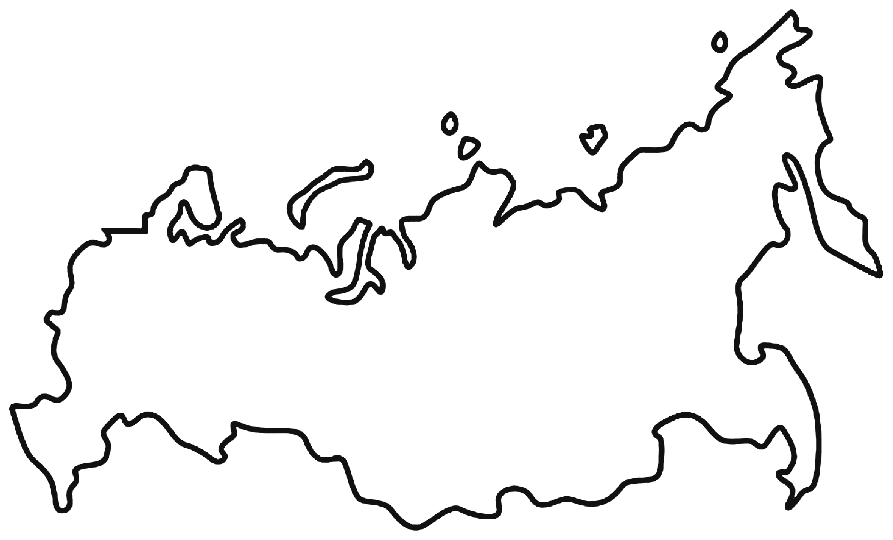
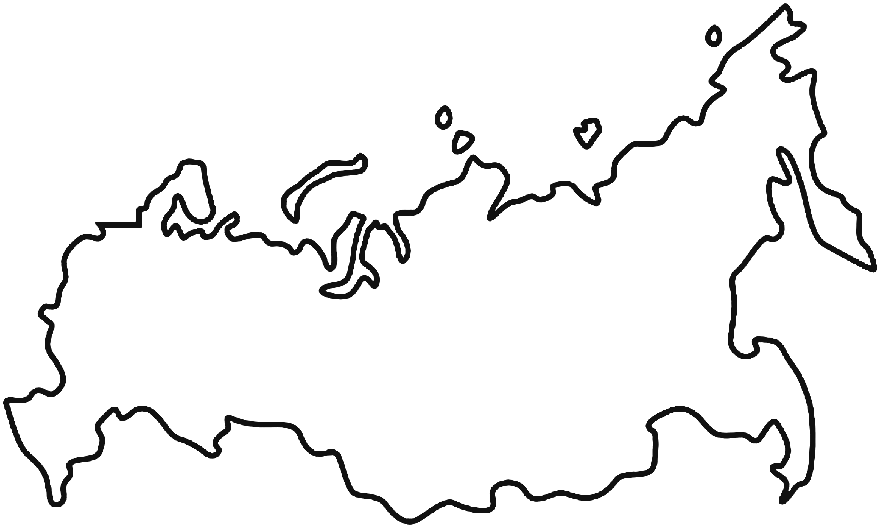
Increase Russia map size

diff --git a/app/globals.css b/app/globals.css
@@ -369,7 +369,7 @@ main > section:not(.hero) :is(p, li) { font-size: var(--main-copy-size); }
 .geography-section { min-height: clamp(780px, 66vw, 960px); align-content: start; justify-items: center; padding-top: 2.5cm; text-align: center; }
 .geography-section h2 { grid-column: 3 / 11; }
 .russia-map-canvas, .world-map-canvas { grid-column: 1 / 13; display: block; justify-self: center; width: calc(100% - 8cm); max-width: 100%; margin-top: clamp(20px, 3vw, 42px); }
-.russia-map-canvas { width: 19cm; height: calc(19cm * 540 / 893); }
+.russia-map-canvas { width: 21cm; height: calc(21cm * 528 / 881); }
 .world-map-canvas { height: clamp(420px, calc((100vw - 8cm) / 1.75), 690px); }
 .geography-section > p { grid-column: 3 / 11; margin-top: 2cm; }
 .geography-section > .text-button { grid-column: 5 / 9; margin-top: 18px; margin-bottom: 2cm; }
@@ -526,7 +526,7 @@ main > .offer-section .text-button { text-align: center; }
   .events-table { min-width: 680px; }
   .events-table th, .events-table td { padding: 15px 16px; }
   .russia-map-canvas, .world-map-canvas { grid-column: 1 / 13; width: calc(100vw - 2cm); max-width: calc(100vw - 2cm); }
-  .russia-map-canvas { height: clamp(280px, calc((100vw - 2cm) * 540 / 893), 480px); }
+  .russia-map-canvas { height: clamp(280px, calc((100vw - 2cm) * 528 / 881), 480px); }
   .world-map-canvas { height: clamp(260px, calc((100vw - 2cm) / 1.75), 440px); }
   .section-divider { margin: calc(1.5cm - 5px) 0; }
   .panel-summary { padding-top: 0; }
@@ -547,7 +547,7 @@ main > .offer-section .text-button { text-align: center; }
   .hero-intro { grid-column: 2 / 12; }
   .tree-figure { grid-column: 2 / 12; }
   .panel-wide { height: auto; }
-  .russia-map-canvas { height: calc((100vw - 2cm) * 540 / 893); }
+  .russia-map-canvas { height: calc((100vw - 2cm) * 528 / 881); }
   .world-map-canvas { height: calc((100vw - 2cm) / 1.75); }
   .offer-gallery { grid-template-columns: 1fr; gap: 18px; }
   .offer-gallery-item { aspect-ratio: 4 / 3; }
